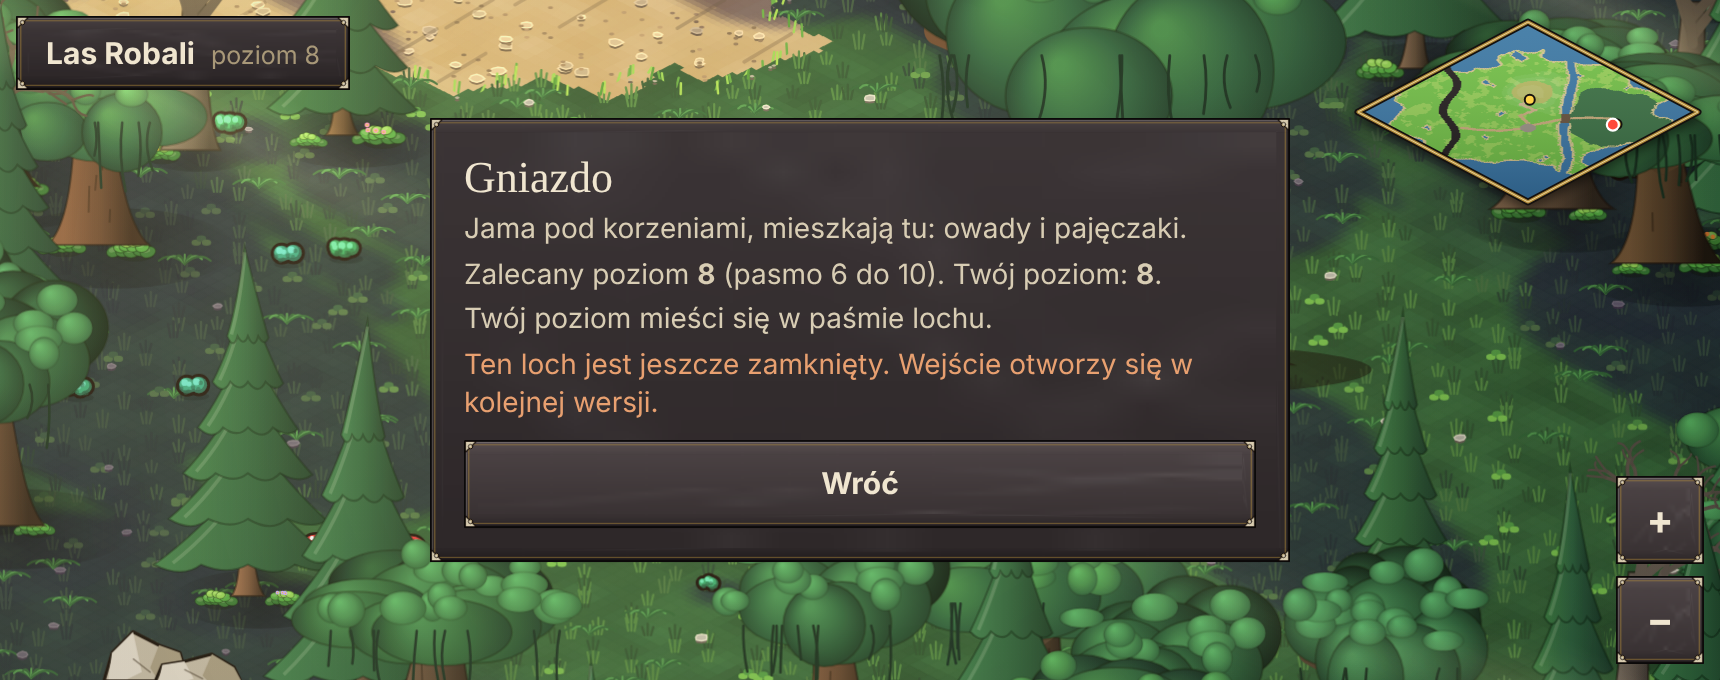
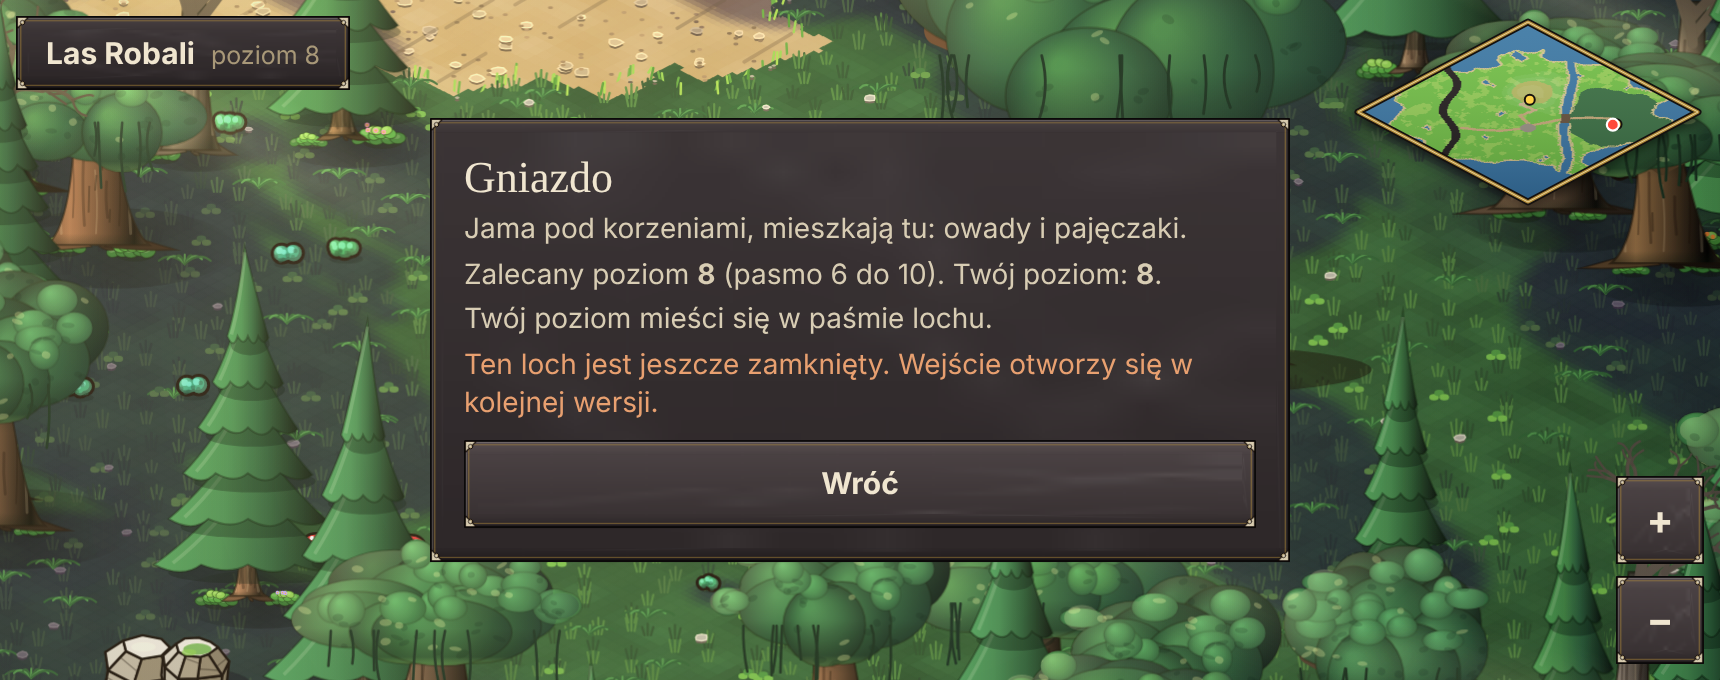
Bryłowe obiekty: walce z gradientem i obręczami (beczka, latarnia, studnia), skrzynie z ramą, skały jako ściany z cieniowaniem, korony drzew z wspólnym oświetleniem, pnie z korzeniami; nowe: studnia i płot; podgląd www/obiekty.html
Claude-Session: https://claude.ai/code/session_01YGgK3XekFYaLDhBRBtmmRq

diff --git a/src/art/props.js b/src/art/props.js
@@ -1,27 +1,31 @@
 // Drobne rekwizyty przy budynkach i na ulicy. Punkt (x,y) to środek podstawy. Wszystko leży w osiach izometrii, nie wprost na ekran.
-import { kit, OUT, plane, planeEllipse, isoBox, isoCylinder } from './kit.js';
+import { kit, OUT, plane, planeEllipse, isoBox, isoCylinder, vCyl } from './kit.js';
 import { rng } from './rng.js';
 import { shade } from './color.js';
 
 export function barrel(g, x, y, sc = 1, seed = 1) {
-  const { ln, ell, lg, blob } = kit(g), r = rng(seed);
-  const w = 7 * sc, h = 15 * sc, col = r.pick(['#a8703a', '#8a5a2a', '#b88048']);
-  blob(x + 3, y + 1, w + 3, 3, '#000', 0.2);
-  g.beginPath(); g.moveTo(x - w * 0.85, y - h); g.bezierCurveTo(x - w * 1.25, y - h * 0.6, x - w * 1.25, y - h * 0.3, x - w * 0.85, y);
-  g.lineTo(x + w * 0.85, y); g.bezierCurveTo(x + w * 1.25, y - h * 0.3, x + w * 1.25, y - h * 0.6, x + w * 0.85, y - h); g.closePath();
-  g.fillStyle = lg(x - w, 0, x + w, 0, shade(col, 0.08), shade(col, -0.12)); g.fill(); g.lineWidth = 1.8; g.strokeStyle = OUT; g.stroke();
-  for (const t of [0.28, 0.72]) { ln([[x - w * 1.15, y - h * t - 1.5], [x, y - h * t + 1.5], [x + w * 1.15, y - h * t - 1.5]], 1.6, '#4a4a52'); }
-  ell(x, y - h, w * 0.85, 3, shade(col, -0.06), 1.6);
-  ell(x, y - h, w * 0.5, 1.6, shade(col, -0.16), 0);
+  const { blob, ln } = kit(g), r = rng(seed), col = r.pick(['#a8703a', '#8a5a2a', '#b88048']);
+  const w = 7 * sc, h = 17 * sc;
+  blob(x + 4, y + 1, w * 1.7, w * 0.62, '#0a0614', 0.34);
+  // klepki: korpus z wybrzuszeniem, obręcze jako łuki elips, deski wierzchu z szczeliną
+  vCyl(g, x, y, w * 0.86, w * 0.86, h, col, { bulge: w * 0.34, ring: [0.12, 0.34, 0.66, 0.88], ringCol: '#3c3c46', ringW: 2.2 * sc, top: shade(col, -0.04), lw: 1.5 });
+  for (let i = -2; i <= 2; i++) { const kx = x + i * w * 0.34; ln([[kx, y - h * 0.03 + Math.abs(i) * 0.4], [kx + i * 0.5, y - h * 0.97]], 0.7, 'rgba(50,28,10,.35)'); }
+  ln([[x - w * 0.7, y - h - 0.6], [x + w * 0.7, y - h + 0.6]], 0.8, 'rgba(40,22,8,.45)');
 }
 export function crate(g, x, y, sc = 1, seed = 1) {
-  const { ln, blob } = kit(g), r = rng(seed), col = r.pick(['#b8844a', '#a67238', '#c49458']);
-  const s = 12 * sc;
-  blob(x + 4, y + 1, s * 0.9, 4, '#000', 0.2);
-  const P = isoBox(g, x, y, s, s, 11 * sc, { left: shade(col, -0.1), right: shade(col, 0.02), top: shade(col, 0.12) });
-  const hh = 11 * sc;
-  ln([P(-s / 2, s / 2, hh * 0.5), P(s / 2, s / 2, hh * 0.5)], 1, 'rgba(58,36,20,.7)'); ln([P(s / 2, s / 2, hh * 0.5), P(s / 2, -s / 2, hh * 0.5)], 1, 'rgba(58,36,20,.7)');
-  ln([P(0, s / 2, 0), P(0, s / 2, hh)], 1.2, 'rgba(58,36,20,.7)');
+  const { ln, blob, circ } = kit(g), r = rng(seed), col = r.pick(['#b8844a', '#a67238', '#c49458']);
+  const s = 13 * sc, hh = 12 * sc;
+  blob(x + 5, y + 1, s * 1.1, s * 0.45, '#0a0614', 0.34);
+  const P = isoBox(g, x, y, s, s, hh, { left: shade(col, -0.08), right: shade(col, -0.01), top: shade(col, 0.14) });
+  const dark = 'rgba(58,32,12,.75)', wood = shade(col, -0.2);
+  // listwy ramy na każdej ścianie (w płaszczyźnie ściany) i skośna zastrzałka, deski wierzchu, gwoździe
+  for (const [A, B] of [[[-s / 2, s / 2], [s / 2, s / 2]], [[s / 2, s / 2], [s / 2, -s / 2]]]) {
+    for (const z of [hh * 0.16, hh * 0.84]) ln([P(A[0], A[1], z), P(B[0], B[1], z)], 2.2 * sc, wood);
+    ln([P(A[0], A[1], hh * 0.16), P(B[0], B[1], hh * 0.84)], 1.6 * sc, wood); ln([P(A[0], A[1], hh * 0.5), P(B[0], B[1], hh * 0.5)], 0.7, dark);
+  }
+  ln([P(-s / 2, s / 2, 0), P(-s / 2, s / 2, hh)], 2 * sc, wood); ln([P(s / 2, s / 2, 0), P(s / 2, s / 2, hh)], 2 * sc, wood);
+  for (const q of [-0.33, 0, 0.33]) ln([P(q * s, -s / 2, hh), P(q * s, s / 2, hh)], 0.8, dark);
+  for (const [px, py, z] of [[-s * 0.45, s / 2, hh * 0.16], [s * 0.45, s / 2, hh * 0.16], [s / 2, s * 0.45, hh * 0.84], [s / 2, -s * 0.45, hh * 0.84]]) { const q = P(px, py, z); circ(q[0], q[1], 0.9, '#2a2a30', 0); }
 }
 // stos kłód ułożonych wzdłuż osi x: końce są elipsami w płaszczyźnie ściany, nie kółkami wprost na ekran
 export function logs(g, x, y, sc = 1) {
@@ -69,13 +73,50 @@ export function sack(g, x, y, sc = 1) {
   ln([[x - 3 * sc, y - 11 * sc], [x + 3 * sc, y - 11 * sc]], 1.6, '#8a5a2a');
 }
 export function lampPost(g, x, y, sc = 1) {
-  const { poly, blob } = kit(g);
-  blob(x + 3, y + 1, 7 * sc, 2.5, '#000', 0.2);
-  poly([[x - 1.6 * sc, y], [x + 1.6 * sc, y], [x + 1.2 * sc, y - 34 * sc], [x - 1.2 * sc, y - 34 * sc]], '#3a3a42', 1.2);
-  blob(x, y - 38 * sc, 14 * sc, 14 * sc, '#ffd84a', 0.22);
-  const Lp = plane('L', x, y - 37 * sc);
-  poly([Lp(-4.5, -4), Lp(4.5, -4), Lp(4.5, 4), Lp(-4.5, 4)], '#ffe27a', 1.4);
-  poly([Lp(-6.5, 4), Lp(6.5, 4), Lp(0, 10)], '#3a3a42', 1.4);
+  const { blob, ln, poly, circ } = kit(g);
+  // plama światła na ziemi (w płaszczyźnie gruntu) i cień pod słupem
+  const pool = g.createRadialGradient(x, y + 2, 2, x, y + 2, 34 * sc); pool.addColorStop(0, 'rgba(255,214,110,.34)'); pool.addColorStop(1, 'rgba(255,214,110,0)'); g.save(); g.fillStyle = pool; g.beginPath(); g.ellipse(x, y + 2, 34 * sc, 17 * sc, 0, 0, 7); g.fill(); g.restore();
+  blob(x + 3, y + 1, 9 * sc, 3.2 * sc, '#0a0614', 0.34);
+  // cokół z kamienia, zwężający się żeliwny słup z kołnierzami, ramię i latarnia jako bryła ze szkłem
+  const bp = isoBox(g, x, y, 11 * sc, 11 * sc, 5 * sc, { left: '#9a9486', right: '#76705f', top: '#b6b09f' }); void bp;
+  vCyl(g, x, y - 5 * sc, 2.6 * sc, 1.7 * sc, 30 * sc, '#3c3c46', { ring: [0.04, 0.5, 0.97], ringCol: '#2a2a32', ringW: 2.4 * sc, lw: 1.2 });
+  ln([[x + 1 * sc, y - 33 * sc], [x + 1.5 * sc, y - 37 * sc]], 2 * sc, '#2a2a32');
+  const ly = y - 36 * sc;
+  g.save(); const gl = g.createRadialGradient(x, ly - 5 * sc, 1, x, ly - 5 * sc, 20 * sc); gl.addColorStop(0, 'rgba(255,226,130,.55)'); gl.addColorStop(1, 'rgba(255,226,130,0)'); g.fillStyle = gl; g.beginPath(); g.arc(x, ly - 5 * sc, 20 * sc, 0, 7); g.fill(); g.restore();
+  const lp = isoBox(g, x, ly, 7 * sc, 7 * sc, 10 * sc, { left: '#ffd36a', right: '#e09a2a', top: '#ffe9a8' }); void lp;
+  // ramy latarni na krawędziach i daszek-piramida z gałką
+  for (const [dx, dy] of [[-3.5, 3.5], [3.5, 3.5], [3.5, -3.5]]) { const q = [x + (dx - dy) * 0.894 * sc, ly + (dx + dy) * 0.447 * sc]; ln([[q[0], q[1]], [q[0], q[1] - 10 * sc]], 1.3 * sc, '#2a2a32'); }
+  const ty = ly - 10 * sc; poly([[x - 5.4 * sc, ty + 1], [x + 5.4 * sc, ty + 1], [x, ty - 6.5 * sc]], '#3c3c46', 1.2); poly([[x, ty + 1.8 * sc], [x + 5.4 * sc, ty + 1], [x, ty - 6.5 * sc]], '#26262e', 0);
+  circ(x, ty - 7.5 * sc, 1.5 * sc, '#6a6a78', 1);
+}
+// studnia: kamienny wieniec z warstwami (walec), woda w środku, dwa słupy z belką, daszek dwuspadowy z gontem, wiadro na linie
+export function well(g, x, y, sc = 1, seed = 1) {
+  const { blob, ln, poly, circ } = kit(g), r = rng(seed), stone = r.pick(['#b4ac98', '#a6a090', '#bcb29a']);
+  const P = (X, Y, Z) => [x + (X - Y) * 0.894 * sc, y + (X + Y) * 0.447 * sc - Z * sc];
+  blob(x + 6 * sc, y + 2 * sc, 30 * sc, 11 * sc, '#0a0614', 0.34);
+  vCyl(g, x, y, 14 * sc, 14 * sc, 12 * sc, stone, { ring: [0.34, 0.67], ringCol: 'rgba(50,44,36,.8)', ringW: 1.1, top: shade(stone, 0.08), lw: 1.6 });
+  // woda w środku wieńca
+  g.beginPath(); g.ellipse(x, y - 12 * sc, 10.5 * sc, 5.2 * sc, 0, 0, Math.PI * 2); const wg = g.createRadialGradient(x - 3 * sc, y - 13 * sc, 1, x, y - 12 * sc, 11 * sc); wg.addColorStop(0, '#6ab8d8'); wg.addColorStop(1, '#1c4a6a'); g.fillStyle = wg; g.fill(); g.lineWidth = 1; g.strokeStyle = 'rgba(10,20,30,.7)'; g.stroke();
+  // słupy po bokach (wzdłuż osi x), belka i daszek
+  for (const sx of [-12, 12]) { const b = P(sx, 0, 12), t = P(sx, 0, 40); vCyl(g, b[0], b[1], 1.9 * sc, 1.9 * sc, 28 * sc, '#7a4a26', { lw: 1.1, top: '#8a5a2c' }); void t; }
+  const H = 52, a = 17, b = 11;
+  ln([P(-12, 0, 34), P(12, 0, 34)], 3 * sc, '#4a2c14');
+  poly([P(a, b, H - 11), P(a, -b, H - 11), P(a, 0, H)], '#7a4a26', 1.5);
+  poly([P(-a, b, H - 11), P(a, b, H - 11), P(a, 0, H), P(-a, 0, H)], shade('#b06a3a', 0.04), 1.6);
+  for (let i = 1; i < 5; i++) { const t = i / 5; ln([P(-a, b - b * t, H - 11 + 11 * t), P(a, b - b * t, H - 11 + 11 * t)], 0.9, 'rgba(60,24,8,.45)'); }
+  ln([P(-a, 0, H), P(a, 0, H)], 3, shade('#b06a3a', 0.12));
+  // lina i wiadro
+  ln([P(0, 0, 34), P(0, 0, 21)], 1, '#5a4228'); const bk = P(0, 0, 21); vCyl(g, bk[0], bk[1], 3 * sc, 2.4 * sc, 4.5 * sc, '#8a5a2a', { ring: [0.5], ringCol: '#3a3a44', ringW: 1, lw: 1 }); circ(P(0, 0, 36)[0], P(0, 0, 36)[1], 1.2, '#3a3a44', 0);
+}
+// segment płotu wzdłuż osi x (dir 'x') albo y (dir 'y'): dwa słupki z daszkiem i dwie poprzeczki, deski jako bryły
+export function fence(g, x, y, sc = 1, seed = 1, dir = 'x') {
+  const { blob } = kit(g), wood = '#a8703a', cols = (d) => ({ left: shade(wood, -0.1 + d), right: shade(wood, 0.02 + d), top: shade(wood, 0.14 + d) });
+  const L = 36 * sc, e = dir === 'x' ? [0.894, 0.447] : [-0.894, 0.447];
+  blob(x + 3, y + 1, 22 * sc, 5 * sc, '#0a0614', 0.3);
+  const at = (t) => [x + e[0] * t * L / 2, y + e[1] * t * L / 2];
+  // poprzeczki najpierw (za słupkami nie widać różnicy, ale tak bryła nakłada się poprawnie)
+  for (const z of [6, 13]) { const c = at(0); isoBox(g, c[0], c[1] - z * sc, dir === 'x' ? L : 2.4 * sc, dir === 'x' ? 2.4 * sc : L, 2.6 * sc, cols(0.02)); }
+  for (const t of [-1, 1]) { const c = at(t); isoBox(g, c[0], c[1], 4 * sc, 4 * sc, 19 * sc, cols(0)); isoBox(g, c[0], c[1] - 19 * sc, 5.4 * sc, 5.4 * sc, 2 * sc, cols(0.1)); }
 }
 // wóz stoi wzdłuż osi x: skrzynia z deskami burt, koło ze szprychami i obręczą, ładunek zależny od ziarna
 export function cart(g, x, y, sc = 1, seed = 1) {
@@ -152,4 +193,4 @@ export function eggs(g, x, y, sc = 1, seed = 1) {
   for (let i = 0; i < 6; i++) blob(x + r.range(-13, 13) * sc, y + r.range(-4, 3) * sc, r.range(3, 6) * sc, 0.7 * sc, 'rgba(220,220,235,.35)', 1);
 }
 export const DECALS = { bloodSplat, bones, crack, mound, web, eggs };
-export const PROPS = { mound, web, eggs, bloodSplat, bones, crack, ashCloud, grave, barrel, crate, logs, pot, bench, haybale, sack, lampPost, cart };
+export const PROPS = { well, fence, mound, web, eggs, bloodSplat, bones, crack, ashCloud, grave, barrel, crate, logs, pot, bench, haybale, sack, lampPost, cart };

diff --git a/src/art/trees.js b/src/art/trees.js
@@ -27,11 +27,28 @@ const blob = (g, cx, cy, rx, ry, [c0, c1, c2], rim = 0.3) => {
   if (rim) { g.lineWidth = 1.3; g.strokeStyle = `rgba(14,24,8,${rim})`; g.stroke(); }
 };
 const shadow = (g, x, y, rx) => { const gr = g.createRadialGradient(x + rx * 0.15, y + 2, 2, x + rx * 0.15, y + 2, rx); gr.addColorStop(0, 'rgba(0,0,0,.38)'); gr.addColorStop(1, 'rgba(0,0,0,0)'); g.save(); g.translate(0, 0); g.fillStyle = gr; g.beginPath(); g.ellipse(x + rx * 0.15, y + 2, rx, rx * 0.34, 0, 0, Math.PI * 2); g.fill(); g.restore(); };
-const trunk = (g, x, y, w, h, lean, col) => {
-  const gr = g.createLinearGradient(x - w, 0, x + w, 0); gr.addColorStop(0, shade(col, 0.1)); gr.addColorStop(0.55, col); gr.addColorStop(1, shade(col, -0.12));
-  g.beginPath(); g.moveTo(x - w * 1.5, y); g.bezierCurveTo(x - w * 0.9, y - h * 0.15, x - w * 0.7 + lean * 0.3, y - h * 0.6, x - w * 0.55 + lean, y - h);
-  g.lineTo(x + w * 0.55 + lean, y - h); g.bezierCurveTo(x + w * 0.7 + lean * 0.3, y - h * 0.6, x + w * 0.9, y - h * 0.15, x + w * 1.5, y); g.closePath();
-  g.fillStyle = gr; g.fill(); g.lineWidth = 1.4; g.strokeStyle = 'rgba(20,12,6,.5)'; g.stroke();
+const trunk = (g, x, y, w, h, lean, col, flare = true) => {
+  const body = () => { g.beginPath(); g.moveTo(x - w * 1.5, y); g.bezierCurveTo(x - w * 0.9, y - h * 0.15, x - w * 0.7 + lean * 0.3, y - h * 0.6, x - w * 0.55 + lean, y - h); g.lineTo(x + w * 0.55 + lean, y - h); g.bezierCurveTo(x + w * 0.7 + lean * 0.3, y - h * 0.6, x + w * 0.9, y - h * 0.15, x + w * 1.5, y); g.closePath(); };
+  // korzenie podporowe wychodzą spod pnia na grunt
+  if (flare) for (const sd of [-1, 0.2, 1]) { g.beginPath(); g.moveTo(x + sd * w * 0.5, y - h * 0.12); g.quadraticCurveTo(x + sd * w * 1.5, y - 2, x + sd * w * 2.3, y + 3); g.quadraticCurveTo(x + sd * w * 1.2, y + 4, x + sd * w * 0.2, y + 1); g.closePath(); g.fillStyle = shade(col, sd < 0 ? 0.02 : -0.14); g.fill(); g.lineWidth = 1.1; g.strokeStyle = 'rgba(20,12,6,.5)'; g.stroke(); }
+  const gr = g.createLinearGradient(x - w * 1.4, 0, x + w * 1.4, 0); gr.addColorStop(0, shade(col, 0.06)); gr.addColorStop(0.2, shade(col, 0.2)); gr.addColorStop(0.55, col); gr.addColorStop(0.88, shade(col, -0.22)); gr.addColorStop(1, shade(col, -0.1));
+  body(); g.fillStyle = gr; g.fill();
+  g.save(); body(); g.clip();
+  const ao = g.createLinearGradient(0, y - h, 0, y); ao.addColorStop(0, 'rgba(8,16,8,.45)'); ao.addColorStop(0.3, 'rgba(8,16,8,0)'); ao.addColorStop(0.9, 'rgba(8,16,8,0)'); ao.addColorStop(1, 'rgba(8,16,8,.35)'); g.fillStyle = ao; g.fillRect(x - w * 2, y - h, w * 4, h + 4);   // cień korony u góry i przy ziemi
+  g.lineCap = 'round'; for (let i = 0; i < 7; i++) { const xx = x + (i - 3) * w * 0.34 + lean * 0.4, y0 = y - h * (0.1 + 0.07 * ((i * 5) % 3)), y1 = y - h * (0.55 + 0.1 * ((i * 3) % 4)); g.beginPath(); g.moveTo(xx, y0); g.quadraticCurveTo(xx + (i % 2 ? 1.5 : -1.5), (y0 + y1) / 2, xx + lean * 0.2, y1); g.lineWidth = i % 2 ? 1.1 : 1.8; g.strokeStyle = i % 3 === 0 ? 'rgba(255,230,180,.16)' : 'rgba(15,8,4,.3)'; g.stroke(); }   // żłobienia kory
+  g.restore(); body(); g.lineWidth = 1.4; g.strokeStyle = 'rgba(20,12,6,.55)'; g.stroke();
+};
+// bryłowe cieniowanie korony: wszystkie listki razem tworzą jedną bryłę oświetloną z lewej góry (jasna czapa, cień po prawej i na spodzie, odbite światło u dołu)
+const crownShade = (g, list, P) => {
+  if (!list.length) return; let x0 = 1e9, x1 = -1e9, y0 = 1e9, y1 = -1e9;
+  g.save(); g.beginPath(); for (const [bx, by, rx, ry] of list) { g.moveTo(bx + rx, by); g.ellipse(bx, by, rx, ry, 0, 0, Math.PI * 2); x0 = Math.min(x0, bx - rx); x1 = Math.max(x1, bx + rx); y0 = Math.min(y0, by - ry); y1 = Math.max(y1, by + ry); } g.clip();
+  const lg1 = g.createLinearGradient(x0, y0, x1, y1); lg1.addColorStop(0, 'rgba(255,255,190,.26)'); lg1.addColorStop(0.45, 'rgba(255,255,190,0)'); lg1.addColorStop(0.7, 'rgba(10,24,40,.1)'); lg1.addColorStop(1, 'rgba(10,20,44,.3)'); g.fillStyle = lg1; g.fillRect(x0, y0, x1 - x0, y1 - y0);
+  const lg2 = g.createLinearGradient(0, y0, 0, y1); lg2.addColorStop(0, 'rgba(255,255,200,.1)'); lg2.addColorStop(0.7, 'rgba(0,0,0,0)'); lg2.addColorStop(0.93, 'rgba(10,20,10,.28)'); lg2.addColorStop(1, 'rgba(150,190,80,.2)'); g.fillStyle = lg2; g.fillRect(x0, y0, x1 - x0, y1 - y0);
+  g.restore();
+  // listowie: drobne jasne i ciemne plamki układają się w fakturę, jasne głównie z lewej góry
+  const rr = rng(Math.floor(x0 * 7 + y0 * 3 + 5)); g.save(); g.beginPath(); for (const [bx, by, rx, ry] of list) { g.moveTo(bx + rx, by); g.ellipse(bx, by, rx, ry, 0, 0, Math.PI * 2); } g.clip();
+  for (let i = 0; i < 60; i++) { const px = rr.range(x0, x1), py = rr.range(y0, y1), t = ((px - x0) / (x1 - x0) + (py - y0) / (y1 - y0)) / 2, lit = rr() > t * 1.25; g.fillStyle = lit ? 'rgba(255,255,170,.26)' : 'rgba(8,24,16,.18)'; g.beginPath(); g.ellipse(px, py, rr.range(2, 4.4), rr.range(1.2, 2.4), rr.range(-0.6, 0.6), 0, 7); g.fill(); }
+  g.restore();
 };
 
 export function drawTree(g, x, y, sp) {
@@ -48,14 +65,16 @@ export function drawTree(g, x, y, sp) {
     const list = []; for (let i = 0; i < sp.blobs; i++) { const a = (i / sp.blobs) * Math.PI * 2 + r() * 0.6, d = r.range(0.45, 1); list.push([x + sp.lean + Math.cos(a) * sp.crownW * d * 0.6, cy + Math.sin(a) * sp.crownH * d * 0.6, r.range(0.5, 0.75) * sp.crownW * 0.62, r.range(0.5, 0.72) * sp.crownH * 0.78]); }
     list.push([x + sp.lean, cy - sp.crownH * 0.1, sp.crownW * 0.5, sp.crownH * 0.55]); list.sort((a, b) => a[1] - b[1]);
     list.forEach(([bx, by, rx, ry], i) => blob(g, bx, by, rx, ry, i < list.length * 0.35 ? [P[1], P[2], shade(P[2], -0.08)] : P));
-    for (let i = 0; i < sp.clumps; i++) { const a = r() * 6.28, d = Math.sqrt(r()), bx = x + sp.lean + Math.cos(a) * sp.crownW * 0.85 * d, by = cy + Math.sin(a) * sp.crownH * 0.75 * d - 4, up = -Math.sin(a) * d; if (up < -0.2) continue; blob(g, bx, by, r.range(8, 15), r.range(6, 11), [shade(P[0], 0.1), P[0], P[1]], 0.12); }
+    const clumpsList = []; for (let i = 0; i < sp.clumps; i++) { const a = r() * 6.28, d = Math.sqrt(r()), bx = x + sp.lean + Math.cos(a) * sp.crownW * 0.85 * d, by = cy + Math.sin(a) * sp.crownH * 0.75 * d - 4, up = -Math.sin(a) * d; if (up < -0.2) continue; clumpsList.push([bx, by, 11, 8]); blob(g, bx, by, r.range(8, 15), r.range(6, 11), [shade(P[0], 0.1), P[0], P[1]], 0.12); }
+    crownShade(g, [...list, ...clumpsList], P);
     if (sw) for (let i = 0; i < sp.vines; i++) { const vx = x + sp.lean + r.range(-sp.crownW * 0.8, sp.crownW * 0.8), vy = cy + sp.crownH * 0.35, len = r.range(18, 44); g.beginPath(); g.moveTo(vx, vy); g.quadraticCurveTo(vx + r.range(-5, 5), vy + len * 0.5, vx + r.range(-3, 3), vy + len); g.lineWidth = 1.6; g.strokeStyle = shade(P[2], -0.04); g.stroke(); }
   } else if (sp.species === 'pine') {
     trunk(g, x, y, 7, sp.trunkH, sp.lean * 0.3, sp.bark);
     const tiers = sp.tiers, top = y - sp.tall;
     for (let i = 0; i < tiers; i++) {
       const t = i / (tiers - 1), by = y - sp.trunkH * 0.6 - (sp.tall - sp.trunkH * 0.6) * t * 0.82, wd = sp.tierW * (1 - t * 0.78), hh = (sp.tall / tiers) * 1.75;
-      const gr = g.createLinearGradient(x - wd, 0, x + wd, 0); gr.addColorStop(0, shade(P[0], -0.04)); gr.addColorStop(0.5, P[1]); gr.addColorStop(1, P[2]);
+      g.save(); g.fillStyle = 'rgba(6,18,12,.34)'; g.beginPath(); g.ellipse(x + wd * 0.1, by + 4, wd * 0.95, 7, 0, 0, 7); g.fill(); g.restore();   // cień piętra na niższym
+      const gr = g.createLinearGradient(x - wd, 0, x + wd, 0); gr.addColorStop(0, shade(P[0], 0.06)); gr.addColorStop(0.35, P[0]); gr.addColorStop(0.62, P[1]); gr.addColorStop(1, shade(P[2], -0.1));
       g.beginPath(); g.moveTo(x + sp.lean * t * 0.5, by - hh); g.quadraticCurveTo(x + wd * 0.55, by - hh * 0.35, x + wd, by);
       for (let q = 0; q < 4; q++) g.quadraticCurveTo(x + wd * (0.8 - q * 0.5), by + 6 + (q % 2) * 2, x + wd * (0.5 - q * 0.5), by - 1);
       g.quadraticCurveTo(x - wd * 0.55, by - hh * 0.35, x + sp.lean * t * 0.5, by - hh); g.closePath(); g.fillStyle = gr; g.fill(); g.lineWidth = 1.3; g.strokeStyle = 'rgba(8,24,10,.4)'; g.stroke();
@@ -68,6 +87,7 @@ export function drawTree(g, x, y, sp) {
     const list = []; for (let i = 0; i < sp.blobs; i++) { const a = (i / sp.blobs) * 6.28 + r() * 0.5, d = r.range(0.4, 1); list.push([x + sp.lean + Math.cos(a) * sp.crownW * d * 0.55, cy + Math.sin(a) * sp.crownH * d * 0.55, r.range(18, 28), r.range(14, 22)]); }
     list.sort((a, b) => a[1] - b[1]); const BP = sp.biome === 'summer' ? [hsl(78, 0.6, 0.68), hsl(88, 0.55, 0.52), hsl(100, 0.5, 0.36)] : P;
     for (const [bx, by, rx, ry] of list) blob(g, bx, by, rx, ry, BP, 0.22);
+    crownShade(g, list, BP);
   } else {
     const th = sp.trunkH; trunk(g, x, y, sp.trunkW, th, sp.lean, sp.bark);
     const limb = (bx, by, ang, len, w, d) => { if (d > 3 || len < 8) return; const ex = bx + Math.cos(ang) * len, ey = by + Math.sin(ang) * len; g.beginPath(); g.moveTo(bx, by); g.quadraticCurveTo((bx + ex) / 2 + r.range(-6, 6), (by + ey) / 2 + r.range(-6, 4), ex, ey); g.lineWidth = w; g.lineCap = 'round'; g.strokeStyle = shade(sp.bark, d * -0.02); g.stroke(); limb(ex, ey, ang + r.range(0.3, 0.8), len * 0.66, w * 0.62, d + 1); limb(ex, ey, ang - r.range(0.3, 0.8), len * 0.66, w * 0.62, d + 1); };

diff --git a/src/art/kit.js b/src/art/kit.js
@@ -1,4 +1,5 @@
 // Małe narzędzia rysunkowe: równy ciemny kontur, wypełnienia z gradientem.
+import { shade } from './color.js';
 export const OUT = '#150c08';
 export function kit(g) {
   const lerp = (a, b, t) => [a[0] + (b[0] - a[0]) * t, a[1] + (b[1] - a[1]) * t];
@@ -45,6 +46,7 @@ export function planeEllipse(Lp, cu, cv, ru, rv, n = 20) {
 export const RECEDE = { L: [0.894, -0.447], R: [-0.894, -0.447] };
 
 // Prostopadłościan izometryczny. (cx,cy) to środek podstawy na ekranie, lx i ly to długości wzdłuż osi x i y w pikselach, h wysokość.
+const lgv = (g, y0, y1, c0, c1) => { const q = g.createLinearGradient(0, y0, 0, y1); q.addColorStop(0, c0); q.addColorStop(1, c1); return q; };
 export function isoBox(g, cx, cy, lx, ly, h, cols) {
   const { poly } = kit(g), ex = [0.894, 0.447], ey = [-0.894, 0.447];
   const P = (x, y, z = 0) => [cx + x * ex[0] + y * ey[0], cy + x * ex[1] + y * ey[1] - z];
@@ -52,6 +54,13 @@ export function isoBox(g, cx, cy, lx, ly, h, cols) {
   poly([P(-a, b), P(a, b), P(a, b, h), P(-a, b, h)], cols.left, 1.6);
   poly([P(a, b), P(a, -b), P(a, -b, h), P(a, b, h)], cols.right, 1.6);
   poly([P(-a, -b, h), P(a, -b, h), P(a, b, h), P(-a, b, h)], cols.top, 1.6);
+  // bryła, a nie kartka: ciemniejsze podstawy ścian (zacienienie przy gruncie), jasne krawędzie od strony światła i pionowy narożnik
+  if (h > 6) {
+    const ao = Math.min(h * 0.45, 16);
+    poly([P(-a, b), P(a, b), P(a, b, ao), P(-a, b, ao)], lgv(g, P(0, b, ao)[1], P(0, b, 0)[1], 'rgba(12,8,28,0)', 'rgba(12,8,28,.3)'), 0);
+    poly([P(a, b), P(a, -b), P(a, -b, ao), P(a, b, ao)], lgv(g, P(a, 0, ao)[1], P(a, 0, 0)[1], 'rgba(12,8,28,0)', 'rgba(12,8,28,.38)'), 0);
+  }
+  const hl = kit(g).ln; hl([P(-a, b, h), P(a, b, h)], 1.3, 'rgba(255,255,240,.5)'); hl([P(a, b, h), P(a, -b, h)], 1.1, 'rgba(255,255,240,.22)'); hl([P(a, b, 0), P(a, b, h)], 1.1, 'rgba(255,255,240,.3)');
   return P;
 }
 // Walec leżący wzdłuż osi x, widoczny od strony +x. E to środek podstawy bliższej widzowi, r promień, len długość w głąb.
@@ -61,7 +70,24 @@ export function isoCylinder(g, ex0, ey0, r, len, bodyCol, endCol, ringCol) {
   const nd = [0.447, -0.894]; let best = [-1e9, 0], worst = [1e9, 0];
   for (let i = 0; i < 64; i++) { const t = (i / 64) * Math.PI * 2, p = pt(t), s = (p[0] - ex0) * nd[0] + (p[1] - ey0) * nd[1]; if (s > best[0]) best = [s, t]; if (s < worst[0]) worst = [s, t]; }
   const A = pt(best[1]), B = pt(worst[1]);
-  poly([A, [A[0] + d[0] * len, A[1] + d[1] * len], [B[0] + d[0] * len, B[1] + d[1] * len], B], bodyCol, 1.7);
+  { const gg = g.createLinearGradient(A[0], A[1], B[0], B[1]); gg.addColorStop(0, shade(bodyCol, 0.18)); gg.addColorStop(0.5, bodyCol); gg.addColorStop(1, shade(bodyCol, -0.26)); poly([A, [A[0] + d[0] * len, A[1] + d[1] * len], [B[0] + d[0] * len, B[1] + d[1] * len], B], gg, 1.7); }
   poly(planeEllipse(plane('R', ex0, ey0), 0, 0, r / 0.894 * 0.894, r), endCol, 1.7);
   if (ringCol) poly(planeEllipse(plane('R', ex0, ey0), 0, 0, r * 0.52, r * 0.52), ringCol, 0);
+}
+
+// Walec stojący pionowo (słup, pień, beczka): eliptyczne podstawa i góra w rzucie 2:1, korpus z gradientem od światła (lewa) przez rdzeń do cienia i odbitego światła
+// (prawa krawędź), pierścienie jako łuki elips. rb i rt to promienie dołu i góry, h wysokość w px, o: {ring: [t...], ringCol, top: kolor wierzchu, bulge}.
+export function vCyl(g, x, y, rb, rt, h, col, o = {}) {
+  const bulge = o.bulge || 0, rAt = (t) => rb + (rt - rb) * t + bulge * Math.sin(Math.PI * t), N = 14;
+  const body = () => { g.beginPath(); g.moveTo(x - rb, y); for (let i = 1; i <= 10; i++) { const a = Math.PI - i / 10 * Math.PI; g.lineTo(x + rb * Math.cos(a), y + rb * 0.5 * Math.sin(a)); } for (let i = 0; i <= N; i++) { const t = i / N; g.lineTo(x + rAt(t), y - h * t); } for (let i = 1; i <= 10; i++) { const a = i / 10 * Math.PI; g.lineTo(x + rt * Math.cos(a), y - h + rt * 0.5 * Math.sin(a)); } for (let i = N; i >= 0; i--) { const t = i / N; g.lineTo(x - rAt(t), y - h * t); } g.closePath(); };
+  const rm = Math.max(rb, rt, rAt(0.5));
+  const gr = g.createLinearGradient(x - rm, 0, x + rm, 0); gr.addColorStop(0, shade(col, 0.04)); gr.addColorStop(0.22, shade(col, 0.17)); gr.addColorStop(0.55, shade(col, -0.02)); gr.addColorStop(0.88, shade(col, -0.22)); gr.addColorStop(1, shade(col, -0.1));
+  body(); g.fillStyle = gr; g.fill();
+  // zacienienie przy gruncie i pod górną krawędzią
+  g.save(); body(); g.clip(); const ao = g.createLinearGradient(0, y - h, 0, y + rb * 0.5); ao.addColorStop(0, 'rgba(10,6,24,.0)'); ao.addColorStop(0.72, 'rgba(10,6,24,0)'); ao.addColorStop(1, 'rgba(10,6,24,.34)'); g.fillStyle = ao; g.fillRect(x - rm - 2, y - h - 4, rm * 2 + 4, h + rb + 8); g.restore();
+  for (const t of o.ring || []) { const rr = rAt(t) + 0.5, yy = y - h * t; g.beginPath(); g.ellipse(x, yy, rr, rr * 0.5, 0, 0.04, Math.PI - 0.04); g.lineWidth = o.ringW || 2; g.strokeStyle = o.ringCol || '#3a3a44'; g.stroke(); g.beginPath(); g.ellipse(x, yy - 0.9, rr, rr * 0.5, 0, 0.5, Math.PI - 0.9); g.lineWidth = 0.8; g.strokeStyle = 'rgba(255,255,240,.38)'; g.stroke(); }
+  body(); g.lineWidth = o.lw || 1.4; g.strokeStyle = OUT; g.lineJoin = 'round'; g.stroke();
+  // wierzch
+  g.beginPath(); g.ellipse(x, y - h, rt, rt * 0.5, 0, 0, Math.PI * 2); const tg = g.createRadialGradient(x - rt * 0.3, y - h - rt * 0.15, 1, x, y - h, rt); tg.addColorStop(0, shade(o.top || col, 0.22)); tg.addColorStop(1, shade(o.top || col, 0.02)); g.fillStyle = tg; g.fill(); g.lineWidth = o.lw || 1.4; g.strokeStyle = OUT; g.stroke();
+  g.beginPath(); g.ellipse(x, y - h, rt * 0.86, rt * 0.43, 0, Math.PI * 1.05, Math.PI * 1.7); g.lineWidth = 0.9; g.strokeStyle = 'rgba(255,255,240,.45)'; g.stroke();
 }

diff --git a/src/art/nature.js b/src/art/nature.js
@@ -83,21 +83,35 @@ export function bush(g, x, y, seed, opt = {}) {
   blob(x + 4 * sc, y + 2, 18 * sc, 5 * sc, '#000', 0.2);
   const list = []; const n = r.int(3, 5); for (let i = 0; i < n; i++) list.push([x + (i - (n - 1) / 2) * 7 * sc + r.range(-2, 2), y - r.range(5, 10) * sc, r.range(7, 10) * sc]);
   lumps(g, list, pal, r, false);
+  // bryła krzewu: jasna czapa z lewej góry, cień po prawej i u dołu
+  { g.save(); g.beginPath(); for (const [lx, ly, lr] of list) { g.moveTo(lx + lr, ly); g.arc(lx, ly, lr, 0, Math.PI * 2); } g.clip(); const x0 = x - 30 * sc, x1 = x + 30 * sc, y0 = y - 22 * sc, y1 = y + 4;
+    const l1 = g.createLinearGradient(x0, y0, x1, y1); l1.addColorStop(0, 'rgba(255,255,190,.3)'); l1.addColorStop(0.5, 'rgba(255,255,190,0)'); l1.addColorStop(1, 'rgba(10,20,44,.38)'); g.fillStyle = l1; g.fillRect(x0, y0, x1 - x0, y1 - y0);
+    const l2 = g.createLinearGradient(0, y0, 0, y1); l2.addColorStop(0.65, 'rgba(0,0,0,0)'); l2.addColorStop(1, 'rgba(10,20,10,.3)'); g.fillStyle = l2; g.fillRect(x0, y0, x1 - x0, y1 - y0); g.restore(); }
   const kind = opt.kind || r.pick(['plain', 'berry', 'flower', 'plain']);
   if (kind !== 'plain') for (let i = 0; i < 9; i++) { const [lx, ly, lr] = list[i % list.length]; const a = r() * 7, d = r() * lr * 0.8; circ(lx + Math.cos(a) * d, ly + Math.sin(a) * d - 1, 1.9, kind === 'berry' ? '#d8282a' : r.pick(['#fff', '#ffb8d8', '#ffe066']), 0.8); }
 }
+// Skała jako bryła: podstawa-wielokąt na gruncie, zwężona góra, ściany cieniowane płasko według kąta do światła (lewa góra), jasna powierzchnia wierzchu,
+// pęknięcia, mech na wierzchu i cień rzucony. Dwa, trzy głazy obok siebie mają różne proporcje.
 export function rock(g, x, y, seed, opt = {}) {
   const r = rng(seed * 31 + 2), { poly, blob, ln } = kit(g), sc = opt.sc || r.range(0.8, 1.4), n = r.int(1, 3);
   const tone = opt.tone || r.pick(['#a8a49c', '#9a9ea4', '#b0a898', '#8e9288']);
   for (let q = 0; q < n; q++) {
-    const ox = x + (q - (n - 1) / 2) * 18 * sc + r.range(-3, 3), oy = y + r.range(-2, 2), w = r.range(12, 19) * sc, hh = r.range(10, 17) * sc;
-    blob(ox + 3, oy + 1, w + 3, 4, '#000', 0.2);
-    const pts = []; const m = r.int(6, 8); for (let i = 0; i < m; i++) { const a = Math.PI + (i / (m - 1)) * Math.PI; pts.push([ox + Math.cos(a) * w, oy + Math.sin(a) * hh * 1.0 * (0.7 + r() * 0.5)]); }
-    poly([[ox - w, oy], ...pts.slice(1, -1), [ox + w, oy]], tone, 2);
-    poly([[ox - w * 0.9, oy - 1], pts[1], pts[2], [ox - w * 0.1, oy - hh * 0.2], [ox - w * 0.45, oy - 1]], shade(tone, 0.12), 0);
-    poly([[ox + w * 0.1, oy - hh * 0.3], pts[pts.length - 3] || pts[2], pts[pts.length - 2], [ox + w, oy - 1], [ox + w * 0.3, oy]], shade(tone, -0.12), 0);
-    ln([[ox - w * 0.3, oy - hh * 0.5], [ox + w * 0.1, oy - hh * 0.2]], 0.9, 'rgba(40,30,20,.5)');
-    if (opt.moss !== false && r() < 0.5) blob(ox - w * 0.3, oy - hh * 0.7, w * 0.5, 2.4, '#5aa03a', 0.8);
+    const ox = x + (q - (n - 1) / 2) * 20 * sc + r.range(-3, 3), oy = y + r.range(-2, 2), w = r.range(12, 18) * sc, hh = r.range(8, 13) * sc, m = r.int(7, 9);
+    blob(ox + w * 0.35, oy + 2, w * 1.35, w * 0.45, '#0a0614', 0.34);
+    const ring = (rad, hz, jit) => Array.from({ length: m }, (_, i) => { const a = (i / m) * Math.PI * 2 + r.range(-0.1, 0.1), rr = w * rad * r.range(1 - jit, 1 + jit); return [ox + Math.cos(a) * rr + hz * 0.08, oy + Math.sin(a) * rr * 0.5 - hz, a]; });
+    const base = ring(0.95, 0, 0.1), mid = ring(1.0, hh * 0.55, 0.12), top = ring(0.58, hh, 0.14);
+    const front = (a) => Math.sin(a) > -0.25;
+    const strip = (lo, hi) => { const faces = []; for (let i = 0; i < m; i++) { const j = (i + 1) % m, a1 = lo[i][2], a2 = lo[j][2] < a1 ? lo[j][2] + Math.PI * 2 : lo[j][2], am = (a1 + a2) / 2; if (!front(am)) continue; faces.push({ i, j, am, lit: Math.cos(am) * -0.8 + Math.sin(am) * -0.5 }); }
+      faces.sort((f1, f2) => Math.sin(f1.am) - Math.sin(f2.am));
+      for (const f of faces) { const A = lo[f.i], B = lo[f.j], C = hi[f.j], D = hi[f.i]; poly([[A[0], A[1]], [B[0], B[1]], [C[0], C[1]], [D[0], D[1]]], shade(tone, f.lit * 0.2 - 0.04 + (r() - 0.5) * 0.05), 1.5);
+        if (f.lit > 0.2) ln([[D[0], D[1]], [C[0], C[1]]], 1, 'rgba(255,255,235,.3)'); if (r() < 0.5) { const t = r.range(0.2, 0.7); ln([[A[0] + (D[0] - A[0]) * t, A[1] + (D[1] - A[1]) * t], [B[0] + (C[0] - B[0]) * (t + 0.2), B[1] + (C[1] - B[1]) * (t + 0.2)]], 0.8, 'rgba(30,24,20,.45)'); } } };
+    strip(base, mid); strip(mid, top);
+    poly(top.map((p) => [p[0], p[1]]), shade(tone, 0.2), 1.5);
+    const tcx = top.reduce((a, p) => a + p[0], 0) / m, tcy = top.reduce((a, p) => a + p[1], 0) / m;
+    blob(tcx - 2, tcy, w * 0.3, w * 0.12, 'rgba(255,255,230,1)', 0.22);
+    if (opt.moss !== false && r() < 0.65) { blob(tcx + 1, tcy + 1, w * 0.42, w * 0.17, '#5aa03a', 0.8); blob(tcx - w * 0.2, tcy + 3, w * 0.22, w * 0.1, '#86c24e', 0.75); }
+    // zacienienie u podstawy
+    g.save(); g.beginPath(); g.ellipse(ox, oy, w * 1.05, w * 0.55, 0, 0, Math.PI); g.clip(); const ao = g.createLinearGradient(0, oy - hh * 0.3, 0, oy + w * 0.5); ao.addColorStop(0, 'rgba(10,6,24,0)'); ao.addColorStop(1, 'rgba(10,6,24,.3)'); g.fillStyle = ao; g.fillRect(ox - w * 1.2, oy - hh * 0.3, w * 2.4, hh * 0.3 + w * 0.6); g.restore();
   }
 }
 export function flowers(g, x, y, seed, opt = {}) {

diff --git a/src/art/worldview.js b/src/art/worldview.js
@@ -11,7 +11,7 @@ import { drawBuilding } from './buildings.js';
 import { drawEntrance, genEntrance } from './entrances.js';
 import { genTree, drawTree } from './trees.js';
 import * as NA from './nature.js';
-import { lampPost, bench, barrel, crate, cart, sack, logs } from './props.js';
+import { lampPost, bench, barrel, crate, cart, sack, logs, well, fence } from './props.js';
 
 export const MAXZ = 8, CS = 6, SUB = 8, SHS = 12, SHB = 2;
 
@@ -19,9 +19,9 @@ export const makeGrid = () => new IsoGrid(N, N, { x: N * 36, y: MAXZ * HZ + 60 }
 
 const TREE = { oak: 1, pine: 1, birch: 1, dead: 1, swamp: 1 };
 const SMALL = { bush: (g, x, y, sc, s, o) => NA.bush(g, x, y, s, { biome: o.biome, sc: sc * 0.62 }), rock: (g, x, y, sc, s) => NA.rock(g, x, y, s, { sc: sc * 1.15 }), flowers: (g, x, y, sc, s) => NA.flowers(g, x, y, s, { sc: 0.8 }), mushrooms: (g, x, y, sc, s) => NA.mushrooms(g, x, y, s, { sc: 1.1 }), stump: (g, x, y, sc, s) => NA.stump(g, x, y, s, { sc: 1.1 }) };
-const PROP = { lamp: (g, x, y) => lampPost(g, x, y, 1.35), bench: (g, x, y) => bench(g, x, y, 1.25), barrel: (g, x, y, s) => barrel(g, x, y, 1.1, s), crate: (g, x, y, s) => crate(g, x, y, 1.1, s), cart: (g, x, y, s) => cart(g, x, y, 1.2, s), sack: (g, x, y) => sack(g, x, y, 1.1), logs: (g, x, y) => logs(g, x, y, 1.2) };
+const PROP = { lamp: (g, x, y) => lampPost(g, x, y, 1.35), bench: (g, x, y) => bench(g, x, y, 1.25), barrel: (g, x, y, s) => barrel(g, x, y, 1.1, s), crate: (g, x, y, s) => crate(g, x, y, 1.1, s), cart: (g, x, y, s) => cart(g, x, y, 1.2, s), sack: (g, x, y) => sack(g, x, y, 1.1), logs: (g, x, y) => logs(g, x, y, 1.2), well: (g, x, y, s) => well(g, x, y, 1.2, s), fence: (g, x, y, s, o) => fence(g, x, y, 1.2, s, o && o.dir) };
 // rozmiar obrazka i punkt zaczepienia (podstawa obiektu) w jednostkach świata
-const SPR = { oak: [290, 300, 145, 268], swamp: [320, 320, 160, 282], pine: [210, 310, 105, 282], birch: [220, 300, 110, 272], dead: [220, 240, 110, 214], bush: [110, 80, 55, 62], rock: [170, 120, 85, 96], flowers: [80, 60, 40, 46], mushrooms: [80, 60, 40, 46], stump: [80, 70, 40, 56], lamp: [90, 190, 45, 176], bench: [130, 90, 65, 70], barrel: [90, 90, 45, 74], crate: [90, 90, 45, 74], cart: [190, 140, 95, 108], sack: [80, 70, 40, 54], logs: [140, 90, 70, 70], krypta: [800, 600, 400, 440], jama: [420, 470, 210, 380], budynek: [700, 700, 350, 560] };
+const SPR = { oak: [290, 300, 145, 268], swamp: [320, 320, 160, 282], pine: [210, 310, 105, 282], birch: [220, 300, 110, 272], dead: [220, 240, 110, 214], bush: [110, 80, 55, 62], rock: [170, 120, 85, 96], flowers: [80, 60, 40, 46], mushrooms: [80, 60, 40, 46], stump: [80, 70, 40, 56], lamp: [90, 190, 45, 176], bench: [130, 90, 65, 70], barrel: [90, 90, 45, 74], crate: [90, 90, 45, 74], cart: [190, 140, 95, 108], sack: [80, 70, 40, 54], logs: [140, 90, 70, 70], well: [150, 170, 75, 136], fence: [100, 70, 50, 56], krypta: [800, 600, 400, 440], jama: [420, 470, 210, 380], budynek: [700, 700, 350, 560] };
 
 export class WorldView {
   constructor(world, deps = {}) {
@@ -238,7 +238,7 @@ export class WorldView {
     const sd = o.seed % 7 + 1;
     if (TREE[o.k]) { const spec = genTree(sd, o.k, o.biome || 'summer'); return [`${o.k}:${sd}:${o.biome || ''}`, SPR[o.k], (gg, ax, ay) => drawTree(gg, ax, ay, spec)]; }
     if (SMALL[o.k]) { const sc = o.sc || 1; return [`${o.k}:${sd}:${o.biome || ''}:${Math.round(sc * 4)}`, SPR[o.k], (gg, ax, ay) => SMALL[o.k](gg, ax, ay, sc, sd, o)]; }
-    if (PROP[o.k]) return [`${o.k}:${sd}`, SPR[o.k], (gg, ax, ay) => PROP[o.k](gg, ax, ay, sd)];
+    if (PROP[o.k]) return [`${o.k}:${sd}:${o.dir || ''}`, SPR[o.k], (gg, ax, ay) => PROP[o.k](gg, ax, ay, sd, o)];
     return null;
   }
   // kafle wyższe od gruntu przedmiotu i leżące przed nim (większa głębokość) w zasięgu jego obrazu: tylko one mogą go naprawdę zasłonić

diff --git a/www/obiekty.html b/www/obiekty.html
@@ -1,0 +1,16 @@
+<!doctype html><html lang="pl"><head><meta charset="utf-8"><meta name="viewport" content="width=device-width,initial-scale=1"><title>Obiekty</title>
+<style>body{margin:0;background:#6a8a3a;color:#fff;font:14px system-ui}canvas{display:block}</style></head><body><canvas id="c"></canvas>
+<script type="module">
+import {barrel,crate,lampPost,bench,cart,sack,pot,haybale,logs} from '../src/art/props.js';
+import {genTree,drawTree} from '../src/art/trees.js';
+import * as NA from '../src/art/nature.js';
+const Q=new URLSearchParams(location.search),Z=Number(Q.get('zoom')||3),cv=document.getElementById('c'),dpr=2;
+cv.width=1720;cv.height=680;cv.style.width='860px';cv.style.height='340px';const g=cv.getContext('2d');
+g.fillStyle='#78a840';g.fillRect(0,0,cv.width,cv.height);g.scale(dpr,dpr);
+const row=(list,y,x0,step)=>list.forEach((f,i)=>{g.save();g.translate(x0+i*step,y);g.scale(Z,Z);f(g,0,0);g.restore()});
+const set=Q.get('set')||'props';
+if(set==='props')row([(g,x,y)=>barrel(g,x,y,1.3,1),(g,x,y)=>crate(g,x,y,1.3,2),(g,x,y)=>lampPost(g,x,y,1.4),(g,x,y)=>bench(g,x,y,1.2),(g,x,y)=>sack(g,x,y,1.3),(g,x,y)=>pot(g,x,y,1.3,3)],250,70,140);
+if(set==='trees'){row([(g,x,y)=>drawTree(g,x,y,genTree(3,'oak')),(g,x,y)=>drawTree(g,x,y,genTree(4,'pine')),(g,x,y)=>drawTree(g,x,y,genTree(5,'birch')),(g,x,y)=>drawTree(g,x,y,genTree(6,'dead'))],300,120,210)}
+if(set==='rocks')row([(g,x,y)=>NA.rock(g,x,y,3,{sc:1.4}),(g,x,y)=>NA.rock(g,x,y,5,{sc:1.2}),(g,x,y)=>NA.bush(g,x,y,2,{sc:1.4}),(g,x,y)=>cart(g,x,y,1.2,3),(g,x,y)=>haybale(g,x,y,1.4),(g,x,y)=>logs(g,x,y,1.3)],250,80,140);
+window.__ok=true;
+</script></body></html>

diff --git a/www/swiat.html b/www/swiat.html
@@ -53,7 +53,7 @@ const world=generateWorld(Number(Q.get('seed'))||1),wv=new WorldView(world),cv=$
 const SAVED=loadCharacter(),LEVEL=SAVED?.level||1;$('lvl').textContent='poziom '+LEVEL;
 const hspec=SAVED?heroSpec(SAVED.classId,{...SAVED.look,seed:3}):heroSpec('zalobnik',{face:1,hairStyle:'long',hair:'#c8c8d0',skin:'#f0c49a'});
 const hero=newWalker(...world.start);let face='SE';
-const AT={krypta:world.entrances[0].approach,jama:world.entrances[1].approach,start:world.start,bród:world.roads.east[2],ford:world.roads.east[2],trakt:world.roads.west[3],wzgorze:world.roads.up[2],las:world.roads.east[4],plac:[world.start[0]-4,world.start[1]-9]};
+const AT={krypta:world.entrances[0].approach,jama:world.entrances[1].approach,start:world.start,bród:world.roads.east[2],ford:world.roads.east[2],trakt:world.roads.west[3],wzgorze:world.roads.up[2],las:world.roads.east[4],plac:[world.start[0]-4,world.start[1]-9],studnia:(()=>{const o=world.objects.find(q=>q.k==='well');return o?[o.x-1.5,o.y+2.5]:world.start})(),plot:(()=>{const o=world.objects.find(q=>q.k==='fence');return o?[o.x-2,o.y+2]:world.start})()};
 if(Q.get('at')&&AT[Q.get('at')]){hero.x=AT[Q.get('at')][0];hero.y=AT[Q.get('at')][1]}
 const npcSpec=world.npcs.map(n=>({...genCharacter(n.seed,n.role),sc:1.0}));
 let zoom=Number(Q.get('zoom'))||0.8,dpr=1,CW=0,CH=0,cam={x:0,y:0},pending=null,bubbleT=0,lastReg=-1,t0=performance.now();

diff --git a/src/world/kraina.js b/src/world/kraina.js
@@ -158,6 +158,9 @@ export function generateWorld(seed = 1) {
   { const [ex, ey] = ROAD_W[3]; for (const [dx, dy, kk] of [[3.2, -1.6, 'logs'], [2.2, 1.9, 'logs'], [4.2, 0.4, 'crate'], [1.6, -2.8, 'barrel']]) put(kk, ex + dx, ey + dy, { prop: true }); }
   const vprops = [['lamp', -4, -4.4], ['lamp', 4.4, -4], ['lamp', -4.4, 4.6], ['lamp', 4.8, 4.4], ['bench', -5.8, 1.6], ['bench', 6.2, 1.8], ['barrel', -7.4, -6.6], ['crate', -8.6, -7], ['barrel', 7.4, -6.6], ['cart', 2.8, 9.2], ['sack', -2, 9]];
   for (const [kk, dx, dy] of vprops) put(kk, vx + dx, vy + dy, { prop: true });
+  // studnia przy placu i kawałek płotu przy wozie (zajmują kafle, więc ścieżki je omijają)
+  { const solid = (kk, dx, dy, extra = {}) => { put(kk, vx + dx, vy + dy, { prop: true, ...extra }); blocked[idx(Math.floor(vx + dx), Math.floor(vy + dy))] = Math.max(blocked[idx(Math.floor(vx + dx), Math.floor(vy + dy))], 2); };
+    solid('well', 0.4, -7.6); for (let i = 0; i < 4; i++) solid('fence', 6.2 + i * 0.95, 7.6, { dir: 'x' }); for (let i = 1; i < 3; i++) solid('fence', 10.0, 7.6 + i * 0.95, { dir: 'y' }); }
   objects.sort((a, b) => (a.x + a.y) - (b.x + b.y));
   const byTile = new Map();
   for (const o of objects) { const key = Math.floor(o.y) * N + Math.floor(o.x); (byTile.get(key) || byTile.set(key, []).get(key)).push(o); }

diff --git a/src/world/shadowmap.js b/src/world/shadowmap.js
@@ -16,7 +16,7 @@ const TREES = {
   pine: { trunk: [0.2, 1.6], crown: [1.2, 8.2, 1.25, 0.08], ao: 1.2 },
   dead: { trunk: [0.24, 6.2], ao: 0.6 },
 };
-const SMALLS = { rock: [0.55, 1.1], bush: [0.5, 0.75], barrel: [0.35, 1.0], crate: [0.35, 1.0], lamp: [0.12, 3.4], cart: [0.8, 1.3], mushroom: [0.3, 0.6] };
+const SMALLS = { rock: [0.55, 1.1], bush: [0.5, 0.75], barrel: [0.35, 1.0], crate: [0.35, 1.0], lamp: [0.12, 3.4], cart: [0.8, 1.3], well: [0.8, 1.5], fence: [0.5, 0.55], mushroom: [0.3, 0.6] };
 
 export function buildOccluders(world) {
   const bins = new Map(), ao = new Map();
